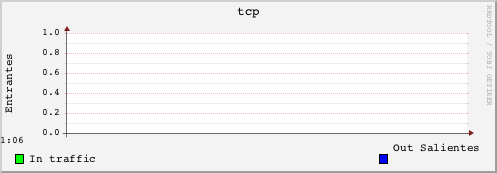
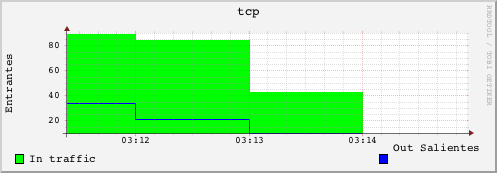
[Fixed] Pil problem

Changed region(s): [[0.0905, 0.1734, 0.9356, 0.8382], [0.0, 0.7803, 0.0604, 0.8382]]

diff --git a/P1/tools/information.py b/P1/tools/information.py
@@ -9,6 +9,9 @@ sys.path.append('./data')
 agents_db = './data/agents.txt'
 tcp_db = './data/rd/tcp'
 snmp_db = './data/rd/snmp'
+icmp_db = './data/rd/icmp'
+udp_db = './data/rd/udp'
+traffic_db = './data/rd/traffic'
 
 def getAgents():
     agents = []
@@ -44,12 +47,17 @@ def getAgentUptime(community, ip, port):
     return nt.getUpTime(community, ip, port)
 
 def generateAllTraffic(community, ip, port):
-    pass
-
-def generateTCPTraffic(community, ip, port):
     rrdt.createRRDDatabase(tcp_db)
+    rrdt.createRRDDatabase(snmp_db)
+    rrdt.createRRDDatabase(icmp_db)
+    rrdt.createRRDDatabase(udp_db)
+    rrdt.createRRDDatabase(traffic_db)
     thr.Thread(target=__generateTCPTraffic, args=(community, ip, port)).start()
-    thr.Thread(target=__generateTCPImage).start()
+    thr.Thread(target=__generateSNMPTraffic, args=(community, ip, port)).start()
+    thr.Thread(target=__generateICMPTraffic, args=(community, ip, port)).start()
+    #thr.Thread(target=__generateUDPTraffic, args=(community, ip, port)).start()
+    thr.Thread(target=__generateTraffic, args=(community, ip, port)).start()
+    thr.Thread(target=__generateAllImages).start()
 
 def __generateTCPTraffic(community, ip, port):
     total_input_traffic = 0
@@ -60,18 +68,7 @@ def __generateTCPTraffic(community, ip, port):
         total_output_traffic = int(nt.getOutputTCPTraffic(community, ip, port))
         value = "N:" + str(total_input_traffic) + ':' + str(total_output_traffic)
         rrdt.updateAndDumpRRDDatabase(tcp_db, value)
-        time.sleep(1)
-
-def __generateTCPImage():
-    current_time = str(int(time.time()))
-    while True:
-        rrdt.createRRDImage(tcp_db, current_time, "tcp")
-        time.sleep(30)
-
-def generateSNMPTraffic(community, ip, port):
-    rrdt.createRRDDatabase(snmp_db)
-    thr.Thread(target=__generateSNMPTraffic, args=(community, ip, port)).start()
-    thr.Thread(target=__generateSNMPImage).start()
+        time.sleep(5)
 
 def __generateSNMPTraffic(community, ip, port):
     while True:
@@ -81,8 +78,36 @@ def __generateSNMPTraffic(community, ip, port):
         rrdt.updateAndDumpRRDDatabase(snmp_db, value)
         time.sleep(1)
 
-def __generateSNMPImage():
+def __generateICMPTraffic(community, ip, port):
+    while True:
+        total_input_traffic = int(nt.getInputICMPTraffic(community, ip, port))
+        total_output_traffic = int(nt.getOutputICMPTraffic(community, ip, port))
+        value = "N:" + str(total_input_traffic) + ':' + str(total_output_traffic)
+        rrdt.updateAndDumpRRDDatabase(icmp_db, value)
+        time.sleep(1)
+
+def __generateUDPTraffic(community, ip, port):
+    while True:
+        total_input_traffic = int(nt.getInputUDPTraffic(community, ip, port))
+        total_output_traffic = int(nt.getOutputUDPTraffic(community, ip, port))
+        value = "N:" + str(total_input_traffic) + ':' + str(total_output_traffic)
+        rrdt.updateAndDumpRRDDatabase(udp_db, value)
+        time.sleep(1)
+
+def __generateTraffic(community, ip, port):
+    while True:
+        total_input_traffic = int(nt.getInputTraffic(community, ip, port))
+        total_output_traffic = int(nt.getOutputTraffic(community, ip, port))
+        value = "N:" + str(total_input_traffic) + ':' + str(total_output_traffic)
+        rrdt.updateAndDumpRRDDatabase(traffic_db, value)
+        time.sleep(1)
+
+def __generateAllImages():
     current_time = str(int(time.time()))
     while True:
+        rrdt.createRRDImage(tcp_db, current_time, "tcp")
         rrdt.createRRDImage(snmp_db, current_time, "snmp")
+        rrdt.createRRDImage(icmp_db, current_time, "icmp")
+        rrdt.createRRDImage(udp_db, current_time, "udp")
+        rrdt.createRRDImage(traffic_db, current_time, "traffic")
         time.sleep(30)

diff --git a/P1/main.py b/P1/main.py
@@ -1,4 +1,3 @@
-from PIL import ImageTk
 import sys
 sys.path.append('./tools')
 import time
@@ -6,6 +5,8 @@ import tkinter as tk
 import information as i
 import threading as thr
 from tkinter import ttk
+from PIL import ImageTk, ImageFile
+ImageFile.LOAD_TRUNCATED_IMAGES = True
 
 class Application:
     def __init__(self, master):
@@ -75,8 +76,8 @@ class Application:
 
     def fillGraphTab(self):
         i.generateAllTraffic(self.community, self.ip, self.port)
-        #i.generateTraffic(self.community, self.ip, self.port)
-        #i.generateUDPTraffic(self.community, self.ip, self.port)
+        #i.generateTCPTraffic(self.community, self.ip, self.port)
+        #i.generateSNMPTraffic(self.community, self.ip, self.port)
         #i.generateICMPTraffic(self.community, self.ip, self.port)
         thr.Thread(target=self.update_graphs).start()
 
@@ -87,11 +88,15 @@ class Application:
                 widget.destroy()
             photo = ImageTk.PhotoImage(file ="./data/rd/tcp/trafico.png")
             photo2 = ImageTk.PhotoImage(file ="./data/rd/snmp/trafico.png")
+            photo3 = ImageTk.PhotoImage(file ="./data/rd/icmp/trafico.png")
+            photo4 = ImageTk.PhotoImage(file ="./data/rd/udp/trafico.png")
+            photo5 = ImageTk.PhotoImage(file ="./data/rd/traffic/trafico.png")
+
             lbTrafico = ttk.Label(self.graphs_frame,image=photo, text="Grafica1")
             lbTrafico2 = ttk.Label(self.graphs_frame,image=photo2, text="Grafica2")
-            lbTrafico3 = ttk.Label(self.graphs_frame,image=photo, text="Grafica3")
-            lbTrafico4 = ttk.Label(self.graphs_frame,image=photo, text="Grafica4")
-            lbTrafico5 = ttk.Label(self.graphs_frame,image=photo, text="Grafica5")
+            lbTrafico3 = ttk.Label(self.graphs_frame,image=photo3, text="Grafica3")
+            lbTrafico4 = ttk.Label(self.graphs_frame,image=photo4, text="Grafica4")
+            lbTrafico5 = ttk.Label(self.graphs_frame,image=photo5, text="Grafica5")
 
             lbTrafico.grid(row=0, column=0)
             lbTrafico2.grid(row=0, column=1)
@@ -99,7 +104,7 @@ class Application:
             lbTrafico4.grid(row=1, column=1)
             lbTrafico5.grid(row=2, column=0)
 
-            time.sleep(10)
+            time.sleep(30)
 
 
     def updateValuesIntoTreeView(self):

diff --git a/P1/tools/network.py b/P1/tools/network.py
@@ -31,6 +31,25 @@ def getInputSNMPTraffic(communityName, ip, port):
 def getOutputSNMPTraffic(communityName, ip, port):
     return getSnmpInfo(communityName, ip, port, OIDPREFIX + OID.SNMPOutput.value)
 
+def getInputICMPTraffic(communityName, ip, port):
+    return getSnmpInfo(communityName, ip, port, OIDPREFIX + OID.ICMPInput.value)
+
+def getOutputICMPTraffic(communityName, ip, port):
+    return getSnmpInfo(communityName, ip, port, OIDPREFIX + OID.ICMPOutput.value)
+
+def getInputUDPTraffic(communityName, ip, port):
+    return getSnmpInfo(communityName, ip, port, OIDPREFIX + OID.UDPInput.value)
+
+def getOutputUDPTraffic(communityName, ip, port):
+    return getSnmpInfo(communityName, ip, port, OIDPREFIX + OID.UDPOutput.value)
+
+def getInputTraffic(communityName, ip, port):
+    return getSnmpInfo(communityName, ip, port, OIDPREFIX + OID.TrafficInput.value)
+
+def getOutputTraffic(communityName, ip, port):
+    return getSnmpInfo(communityName, ip, port, OIDPREFIX + OID.TrafficOutput.value)
+
+
 def getUpTime(communityName, ip, port):
     timetick = int(getSnmpInfo(communityName, ip, port, OIDPREFIX + OID.UpTime.value))
     days = int(timetick/8640000)

diff --git a/P1/tools/constants.py b/P1/tools/constants.py
@@ -7,6 +7,12 @@ class OID(Enum):
     TCPOutputTraffic = '.6.11.0'
     SNMPInput = '.11.1.0'
     SNMPOutput = '.11.2.0'
+    UDPInput = '.7.1.0'
+    UDPOutput = '.7.4.0'
+    ICMPInput = '.5.1.0'
+    ICMPOutput = '.5.14.0'
+    TrafficInput = '.2.2.1.10.3'
+    TrafficOutput = '.2.2.1.16.3'
     UpTime = '.25.1.1.0'
     Location = '.1.6.0'
     Name = '.1.5.0'
